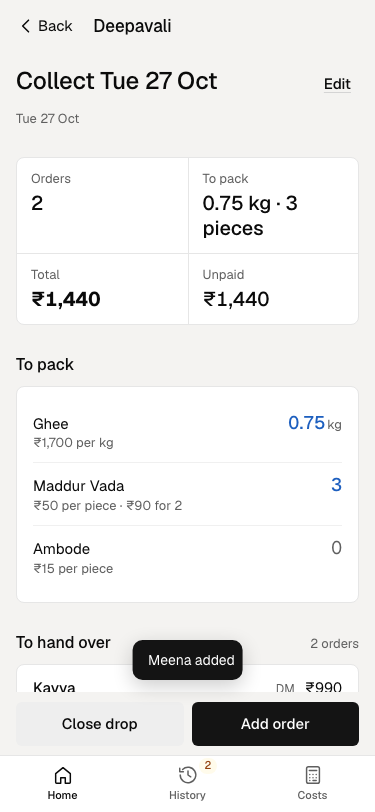
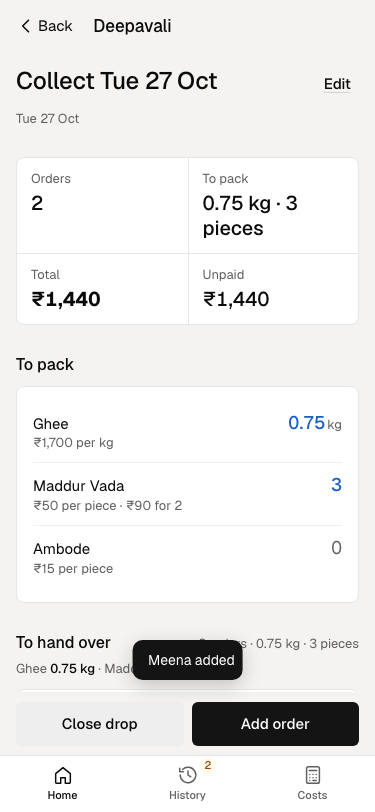
Keep To make above the orders, put what's left with To hand over, let a lunch menu be cleared

diff --git a/site/public/index.html b/site/public/index.html
@@ -125,14 +125,7 @@ button.row:hover{background:color-mix(in srgb,var(--raised) 45%,transparent)}
 .strip.four > div:nth-child(3){border-left:0}
 .strip.four > div:nth-child(n+3){border-top:1px solid var(--border)}
 .strip.four .v{white-space:normal;line-height:1.25}
-.leftbox{margin-top:10px;border:1.5px solid var(--hue);border-radius:var(--radius-card);padding:12px 14px;background:color-mix(in srgb,var(--hue) 7%,var(--surface))}
-.leftbox .lb-h{display:flex;align-items:baseline;justify-content:space-between;gap:10px;flex-wrap:wrap}
-.leftbox .lb-h span{font-weight:500}
-.leftbox .lb-h b{color:var(--hue);font-weight:500;font-size:17px}
-.leftbox .lb-items{display:flex;flex-wrap:wrap;gap:4px 14px;margin-top:6px;font-size:var(--fs-small);color:var(--muted)}
-.leftbox .lb-items b{color:var(--text);font-weight:500}
-.leftbox.done{border-color:var(--border);background:var(--surface)}
-.leftbox.done .lb-h b{color:var(--muted)}
+.leftline b{color:var(--text);font-weight:500}
 .strip .lab{font-size:var(--fs-small);color:var(--muted)}
 .strip .v{font-size:20px;font-weight:500;margin-top:2px;white-space:nowrap}
 .strip .v.money{font-weight:700}
@@ -276,7 +269,7 @@ input:focus{outline:2px solid var(--hue);outline-offset:-1px;border-color:transp
 <input type="file" id="fileIn" accept="application/json,.json" hidden>
 <script>
 "use strict";
-var BUILD="v2.2 — orders split by hand-over · 2026-10-28";
+var BUILD="v2.3 — clear a lunch menu · 2026-10-28";
 var KEY="southsavory.v2";
 /* Starting menu lists, pulled from the old app (south-savory-tally.html):
    lunch dishes from its SEED list; prices only where the old app had his own figure
@@ -767,18 +760,10 @@ function eventBody(ev){
   var miss=ev.orders.some(function(o){return o.lines.some(function(l){return lineMissingPrice(ev,l);});});
   var orders=ev.orders.slice().sort(function(a,b){return (a.t||0)-(b.t||0);});
   var makeWord={lunch:"To cook",custom:"To cook",batter:"To make",drop:"To pack"}[ev.kind];
-  var real=ev.orders.filter(function(o){return !o.untracked;}), left=real.filter(function(o){return !o.delivered;});
-  var leftBox='';
-  if(real.length&&left.length<real.length){
-    var lkc=kitchenCount(ev,function(o){return !o.untracked&&!o.delivered;}).filter(function(c){return c.q;});
-    leftBox=left.length?'<div class="leftbox"><div class="lb-h"><span>Still to hand over</span><b class="num">'+plural(left.length,"order")+' · '+esc(qtyText(ev,lkc))+'</b></div>'+
-        '<div class="lb-items">'+lkc.map(function(c){ var kgU=ev.kind==="batter"||(ev.kind==="drop"&&c.it.unit==="kg"); return '<span>'+esc(c.it.name)+' <b class="num">'+(kgU?fmtKg(c.q):c.q)+'</b></span>'; }).join("")+'</div></div>'
-      :'<div class="leftbox done"><div class="lb-h"><span>Everything handed over</span><b class="num">'+plural(real.length,"order")+'</b></div></div>';
-  }
   return '<div class="section"><div class="card strip four num"><div><div class="lab">Orders</div><div class="v">'+st.n+'</div></div>'+
       '<div><div class="lab">'+makeWord+'</div><div class="v">'+esc(qtyText(ev,kc))+'</div></div>'+
       '<div><div class="lab">Total</div><div class="v money">'+rupee(st.total)+'</div></div>'+
-      '<div><div class="lab">Unpaid</div><div class="v">'+rupee(st.unpaid)+'</div></div></div>'+leftBox+
+      '<div><div class="lab">Unpaid</div><div class="v">'+rupee(st.unpaid)+'</div></div></div>'+
       (miss?'<p class="notice" style="margin-top:10px">Some items have no price yet, so the total is short. Set prices in the menu list or on the order.</p>':'')+'</div>'+
     '<div class="section"><h2>'+countTitle+'<span class="aside">'+(ev.kind==="lunch"&&ev.combos&&ev.combos.length?"combos counted as dishes":"")+'</span></h2>'+
       (kc.length?'<div class="card pad count">'+rows+'</div>':'<p class="empty">No items on this menu.</p>')+'</div>'+
@@ -791,9 +776,11 @@ function orderSections(ev,orders){
   var owe=orders.filter(function(o){return o.delivered&&!o.paid&&!o.untracked;});
   var done=orders.filter(function(o){return o.delivered&&(o.paid||o.untracked);});
   toGo.sort(function(a,b){ return (a.paid?1:0)-(b.paid?1:0)||(a.t||0)-(b.t||0); });
-  function sec(title,list,aside){ return list.length?'<div class="section"><h2>'+title+'<span class="aside num">'+aside+'</span></h2><div class="list">'+list.map(function(o){return orderRow(ev,o);}).join("")+'</div></div>':''; }
+  function sec(title,list,aside,lead){ return list.length?'<div class="section"><h2>'+title+'<span class="aside num">'+aside+'</span></h2>'+(lead||'')+'<div class="list">'+list.map(function(o){return orderRow(ev,o);}).join("")+'</div></div>':''; }
   function sum(list){ return rupee(list.reduce(function(a,o){return a+orderTotal(ev,o);},0)); }
-  return sec("To hand over",toGo,plural(toGo.length,"order"))+
+  var lkc=kitchenCount(ev,function(o){return !o.delivered;}).filter(function(c){return c.q;});
+  var lead=lkc.length?'<p class="sub leftline" style="margin:-4px 0 10px">'+lkc.map(function(c){ var kgU=ev.kind==="batter"||(ev.kind==="drop"&&c.it.unit==="kg"); return esc(c.it.name)+' <b class="num">'+(kgU?fmtKg(c.q):c.q)+'</b>'; }).join(" · ")+'</p>':'';
+  return sec("To hand over",toGo,plural(toGo.length,"order")+" · "+qtyText(ev,lkc),lead)+
     sec("Handed over, not paid",owe,sum(owe))+
     sec("Done",done,plural(done.length,"order")+" · "+sum(done));
 }
@@ -863,13 +850,21 @@ function viewLunchSetup(q){
   $app.innerHTML=bar(ev?"Edit menu":"Set menu","#/lunch?d="+d)+'<main class="page">'+
     '<div class="field"><label class="f">Date</label><div class="seg full" role="group"><button aria-pressed="'+(dd===t)+'" onclick="draft.date=\''+t+'\';render()">Today · '+fmtDate(t)+'</button><button aria-pressed="'+(dd===tm)+'" onclick="draft.date=\''+tm+'\';render()">Tomorrow · '+fmtDate(tm)+'</button></div></div>'+
     (blocked?'<p class="notice" style="margin-top:12px">'+blocked+'</p>':'')+(clash?'<p class="notice" style="margin-top:12px">'+relDate(dd)+' already has a menu. Edit that one instead.</p>':'')+
-    '<div class="section"><h2>Dishes<span class="aside num">'+chosen.length+' picked</span></h2><p class="sub" style="margin:-4px 0 8px">A price changed here is for this day only. Change it for good in the menu list.</p>'+'<input type="search" class="search" placeholder="Search dishes" aria-label="Search dishes" oninput="filterDishes(this.value)">'+groups+
+    '<div class="section"><h2>Dishes<span class="aside num">'+chosen.length+' picked'+(chosen.length?' · <button class="btn text" style="height:auto;padding:0;font-size:inherit" onclick="untickAll()">Untick all</button>':'')+'</span></h2><p class="sub" style="margin:-4px 0 8px">A price changed here is for this day only. Change it for good in the menu list.</p>'+'<input type="search" class="search" placeholder="Search dishes" aria-label="Search dishes" oninput="filterDishes(this.value)">'+groups+
       '<button class="btn secondary block" style="margin-top:12px" onclick="newItemSheet(\'lunch\',true)">New dish</button></div>'+
     '<div class="section"><h2>Combos<span class="aside">set fresh each day</span></h2><p class="sub" style="margin:-4px 0 0">The customer pays the combo price. The kitchen only sees the dishes.</p>'+combos+
       '<button class="btn secondary block" style="margin-top:12px" onclick="draft.combos.push({id:uid(),name:\'Combo \'+(draft.combos.length+1),price:null,dishes:[]});render()">Add a combo</button></div>'+
+    (ev?'<div class="section"><button class="btn danger" onclick="clearLunch(\''+ev.id+'\')">Clear '+relLower(ev.date)+'\'s menu</button><p class="hint">Removes the menu'+(ev.orders.length?' and its '+plural(ev.orders.length,"order"):'')+'. You can set it again any time.</p></div>':'')+
     '</main>';
   dock('<button class="btn primary" '+(blocked||clash||!chosen.length?'disabled':'')+' onclick="saveLunch()">'+(ev?"Save menu":"Save menu · "+plural(chosen.length,"dish","dishes"))+'</button>');
   tabbar("home");
+}
+function untickAll(){ draft.sel={}; draft.combos.forEach(function(c){ c.dishes=[]; }); render(); }
+function clearLunch(id){
+  var ev=S.events[id]; if(!ev) return;
+  if(ev.orders.length&&!confirm("Clear "+relLower(ev.date)+"'s menu? Its "+plural(ev.orders.length,"order")+" will be removed too.")) return;
+  delete S.events[id]; save(); draft=null; go("#/lunch?d="+ev.date);
+  toast(relDate(ev.date)+"'s menu cleared",function(){ S.events[id]=ev; save(); render(); });
 }
 function filterDishes(v){
   var q=normName(v);
